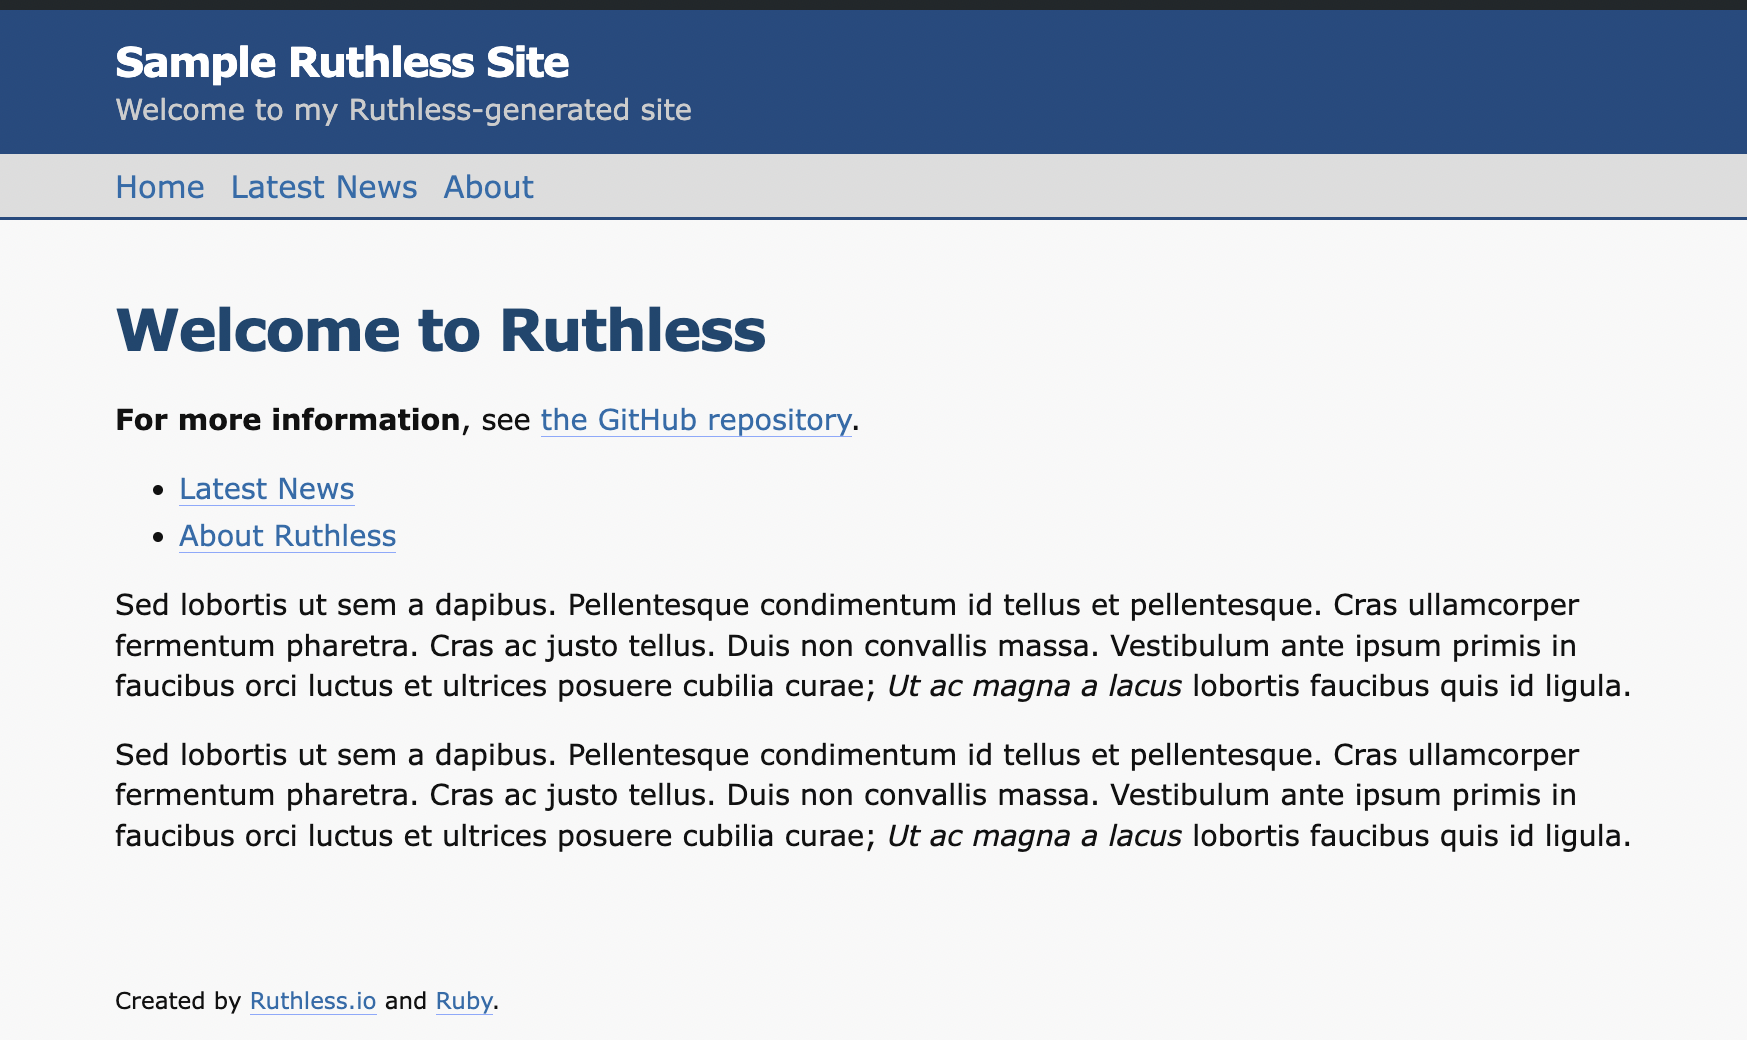
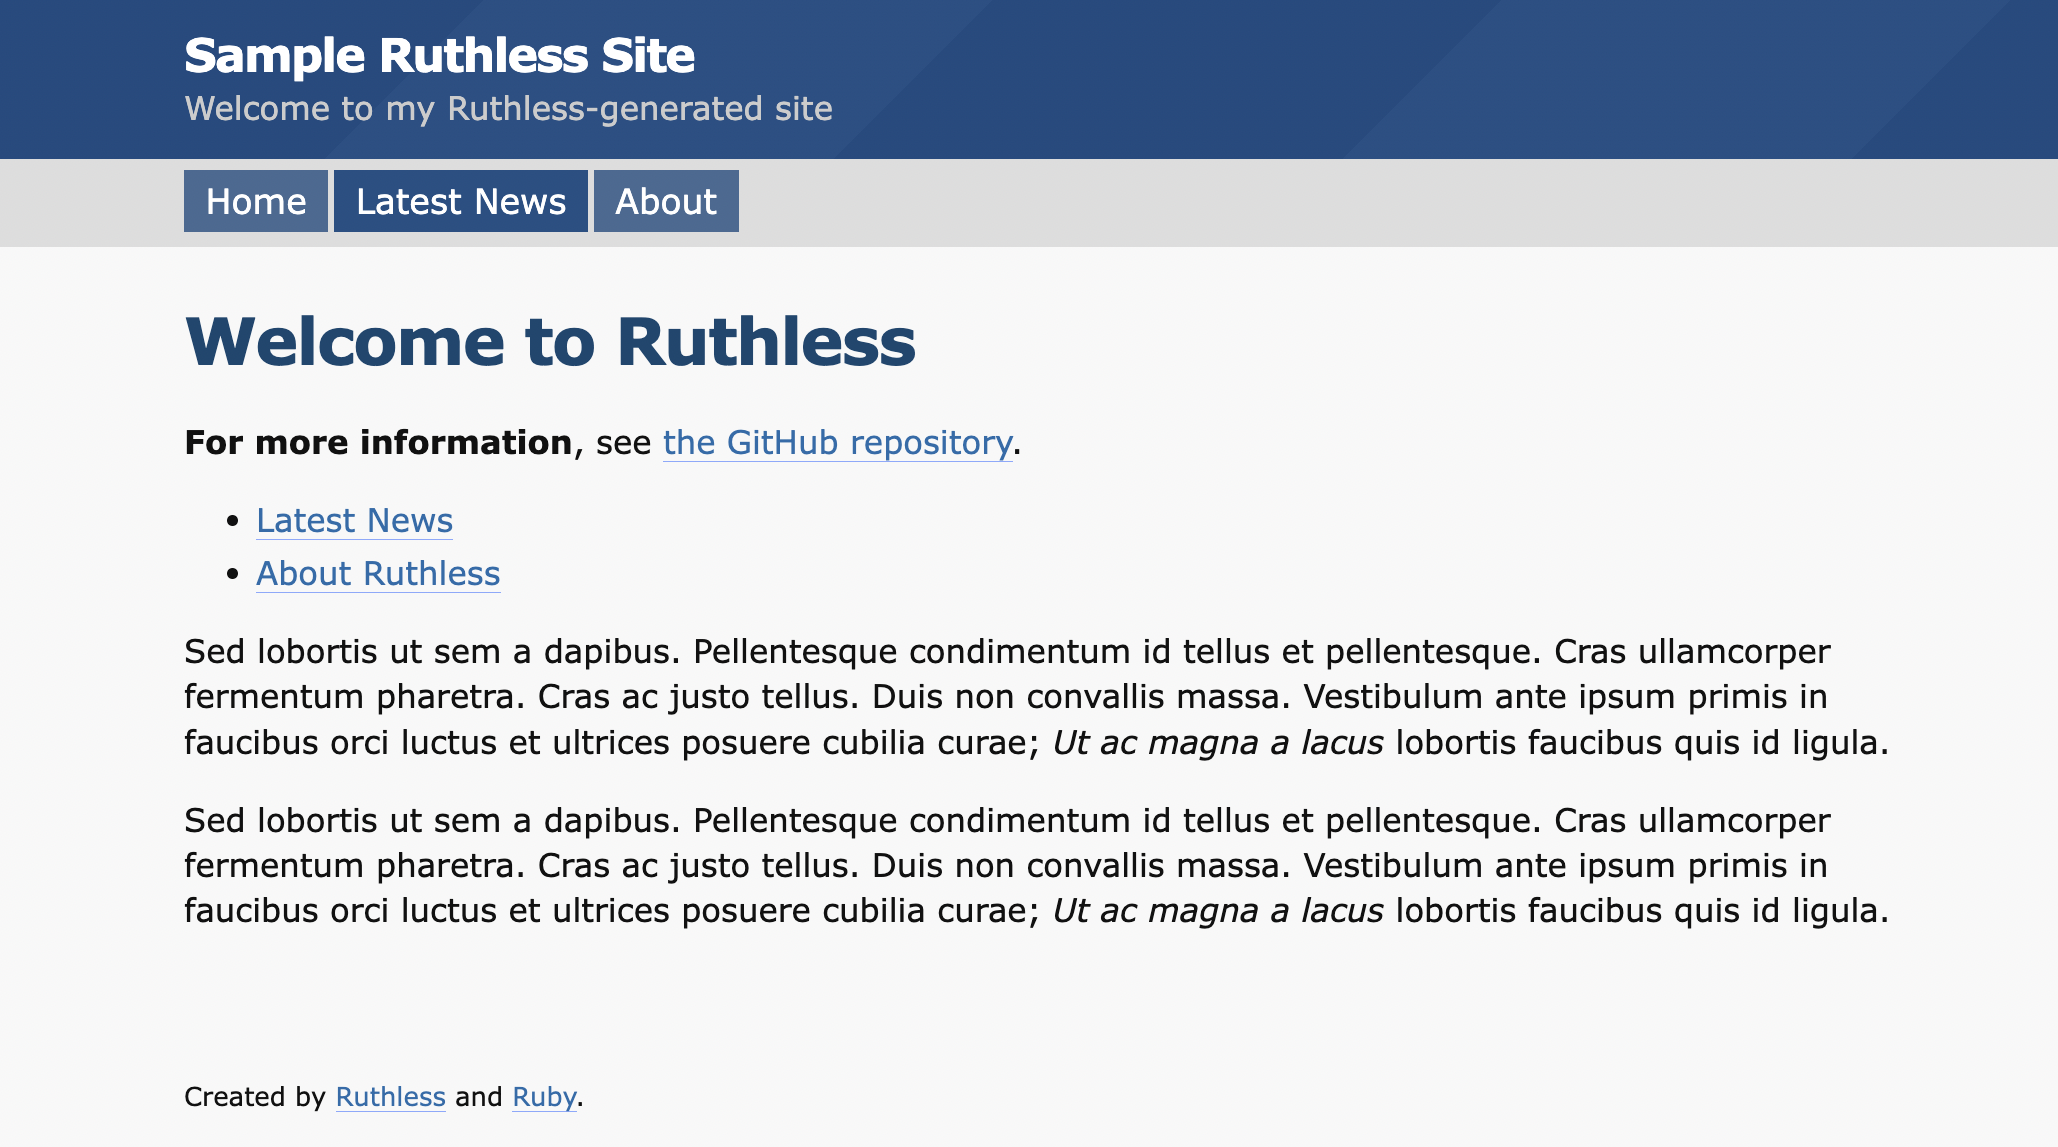
Optional custom theme specified in the `ini` file

diff --git a/example/site/themes/default/theme.css b/example/site/themes/default/theme.css
@@ -1,11 +1,15 @@
+html { box-sizing: border-box; overflow-y: scroll; }
 body { font-family: 'Noto Sans', Verdana, -apple-system, BlinkMacSystemFont, 'Segoe UI', Roboto, 'Helvetica Neue', Arial, sans-serif; font-size: large; background: #f8f8f8; color: #111; margin: 0; padding: 0; }
-a { color: #1e6dac; text-decoration: none; border-bottom: solid 1px #8af; }
+html, body, * { cursor: default; }
+a { cursor: pointer; color: #1e6dac; text-decoration: none; border-bottom: solid 1px #8af; }
 a:hover { color: #085a6e; border-bottom: 2px solid #468c9e; }
 header, nav, main, footer { }
-header { background: #1b4b81; padding-top: 0.4rem; padding-bottom: 0.6rem; }
-nav { border-bottom: solid 2px #1b4b81; background: #ddd; }
-nav a { border: none; margin-right: 1rem; font-size: 1.2rem; white-space: nowrap; }
-main { line-height: 140%; padding-top: 1rem; }
+header { background: #1b4b81; background: repeating-linear-gradient(135deg,#1b4b81,#1b4b81 200px,#205086 200px,#205086 400px); padding-top: 0.4rem; padding-bottom: 0.6rem; }
+nav { background: #ddd; }
+nav .inner { padding-top: 0.4rem; padding-bottom: 0.3rem; }
+nav a { border: none; padding: 0.3rem 0.75rem 0.4rem 0.75rem; display: inline-block; background: #456a93; color: #fff; margin: 0 0.2rem 0.2rem 0; font-size: 1.2rem; white-space: nowrap; }
+nav a:hover { border: none; background: #1e5085; color: #fff; }
+main { line-height: 140%; }
 main img { max-width: 10rem; max-height: 10rem; float: right; margin: 1rem 0 1rem 2rem; background: #fff; padding: 0.4rem; box-shadow: 0 0 8px #00000033; }
 header h1 { font-size: 1.6rem; margin: 0.25rem 0; color: #fff; }
 header aside { color: #ccc; }

diff --git a/ruthless.rb b/ruthless.rb
@@ -1,5 +1,7 @@
 #!/usr/bin/ruby
-#
+
+@version = '3.0.0'
+
 puts 'Ensuring dependencies (slower first time).'
 require 'fileutils'
 require 'find'
@@ -20,21 +22,7 @@ end
 @serve_site = (ARGV[0] && (ARGV[0] == 'serve'))
 @folder = ARGV[1] unless ARGV.length < 2
 
-# Define folder/file locations.
-if @folder
-  @site_folder = File.join(File.dirname(__FILE__), @folder, 'site')
-  @html_folder = File.join(File.dirname(__FILE__), @folder, 'www')
-  @content_folder = File.join(@site_folder, 'content')
-  @layouts_folder = File.join(@site_folder, 'theme')
-  @includes_folder = File.join(@layouts_folder, 'includes')
-  @sample_news_folder = File.join(@content_folder, 'news')
-  @ini_file = File.join(@site_folder, 'ruthless.ini')
-  @layout_file = File.join(@layouts_folder, 'layout.liquid')
-  @theme_file = File.join(@layouts_folder, 'theme.css')
-end
-
 # Define some vars.
-@version = '2.2.2'
 @templatable = ['.md', '.txt'].to_set
 @menu = []
 
@@ -60,8 +48,9 @@ end
 # Show some introductory/explanatory text.
 def show_intro
   puts
-  puts "RUTHLESS #{@version}  https://ruthless.io"
+  puts "RUTHLESS #{@version}"
   puts 'Ruthlessly simple static site generator'
+  puts "https://github.com/kcartlidge/ruthless"
   puts
   puts 'ruby ruthless.rb <command>'
   puts '  new <folder>    Create a new site'
@@ -123,7 +112,25 @@ def get_metadata_and_content(filename)
   { metadata: metadata, content: content }
 end
 
+def define_folders
+  # Define folder/file locations.
+  if @folder
+    @content_folder = File.join(@site_folder, 'content')
+    @layouts_folder = File.join(@site_folder, 'themes', 'default')
+    if @custom_theme
+      @layouts_folder = File.join(@site_folder, @custom_theme)
+      puts 'Setting theme to ' + @layouts_folder
+    end
+    @includes_folder = File.join(@layouts_folder, 'includes')
+    @sample_news_folder = File.join(@content_folder, 'news')
+    @layout_file = File.join(@layouts_folder, 'layout.liquid')
+    @theme_file = File.join(@layouts_folder, 'theme.css')
+  end
+end
+
 def do_create
+  define_folders()
+
   puts '-------------------------------------------'
   puts 'Creating new site and content folders'
   fatal('Site folder already exists') if Dir.exist?(@site_folder)
@@ -132,8 +139,9 @@ def do_create
   new_file('ruthless.ini', @ini_file, "[SITE]
 title    = Sample Ruthless Site
 blurb    = Welcome to my Ruthless-generated site
-footer   = Created by <a href='https://github.com/kcartlidge/ruthless' target='_blank'>Ruthless.io</a> and <a href='https://www.ruby-lang.org' target='_blank'>Ruby</a>.
+footer   = Created by <a href='https://github.com/kcartlidge/ruthless' target='_blank'>Ruthless</a> and <a href='https://www.ruby-lang.org' target='_blank'>Ruby</a>.
 keywords = ruthless,static,site,generator
+theme    = themes/default
 
 [OPTIONS]
 extentions = false
@@ -151,8 +159,8 @@ About = /about")
   new_file('home page', File.join(@content_folder, 'index.md'), "---\ntitle: Welcome to Ruthless\n---\n\n**For more information**, see [the GitHub repository](https://github.com/kcartlidge/ruthless).\n\n* [Latest News](/news)\n* [About Ruthless](/about)" + lipsum)
   new_file('about page', File.join(@content_folder, 'about.md'), "---\ntitle: About Ruthless\n---\n\n**Lorem ipsum** dolor sit amet adipiscing." + lipsum)
   new_file('sample news page', File.join(@sample_news_folder, 'index.md'), "---\ntitle: Latest News\n---\n\n**Lorem ipsum** dolor sit amet adipiscing.\n\n* [Sample News Item 1](sample-news-item-1)\n* [Sample News Item 2](sample-news-item-2)" + lipsum)
-  new_file('sample news item 1 page', File.join(@sample_news_folder, 'sample-news-item-1.md'), "---\ntitle: Sample News Item #1\ndated: August 27, 2023\nauthor: Ruthless.io\nkeywords: news\n---\n\n**Lorem ipsum** dolor sit amet adipiscing.\n\n* [Back to the Latest News](/news)" + lipsum)
-  new_file('sample news item 2 page', File.join(@sample_news_folder, 'sample-news-item-2.md'), "---\ntitle: Sample News Item #2\ndated: January 23, 2024\nauthor: Ruthless.io\nkeywords: news\n---\n\n**Lorem ipsum** dolor sit amet adipiscing.\n\n* [Back to the Latest News](/news)" + lipsum)
+  new_file('sample news item 1 page', File.join(@sample_news_folder, 'sample-news-item-1.md'), "---\ntitle: Sample News Item #1\ndated: August 27, 2023\nauthor: Ruthless\nkeywords: news\n---\n\n**Lorem ipsum** dolor sit amet adipiscing.\n\n* [Back to the Latest News](/news)" + lipsum)
+  new_file('sample news item 2 page', File.join(@sample_news_folder, 'sample-news-item-2.md'), "---\ntitle: Sample News Item #2\ndated: January 23, 2024\nauthor: Ruthless\nkeywords: news\n---\n\n**Lorem ipsum** dolor sit amet adipiscing.\n\n* [Back to the Latest News](/news)" + lipsum)
   new_file('template', @layout_file, "<!DOCTYPE html>
 <html lang='en'>
 <head>
@@ -243,14 +251,18 @@ About = /about")
 </html>")
   new_file('child template', File.join(@includes_folder, '_dated.liquid'), "<div class='dated'>{{ dated }}</div>")
   new_file('page template', File.join(@includes_folder, '_page.liquid'), "{% if dated %}{% include 'dated' %}{% endif %}\n{{ content }}")
-  new_file('theme', @theme_file, "body { font-family: 'Noto Sans', Verdana, -apple-system, BlinkMacSystemFont, 'Segoe UI', Roboto, 'Helvetica Neue', Arial, sans-serif; font-size: large; background: #f8f8f8; color: #111; margin: 0; padding: 0; }
-a { color: #1e6dac; text-decoration: none; border-bottom: solid 1px #8af; }
+  new_file('default theme', @theme_file, "html { box-sizing: border-box; overflow-y: scroll; }
+body { font-family: 'Noto Sans', Verdana, -apple-system, BlinkMacSystemFont, 'Segoe UI', Roboto, 'Helvetica Neue', Arial, sans-serif; font-size: large; background: #f8f8f8; color: #111; margin: 0; padding: 0; }
+html, body, * { cursor: default; }
+a { cursor: pointer; color: #1e6dac; text-decoration: none; border-bottom: solid 1px #8af; }
 a:hover { color: #085a6e; border-bottom: 2px solid #468c9e; }
 header, nav, main, footer { }
-header { background: #1b4b81; padding-top: 0.4rem; padding-bottom: 0.6rem; }
-nav { border-bottom: solid 2px #1b4b81; background: #ddd; }
-nav a { border: none; margin-right: 1rem; font-size: 1.2rem; white-space: nowrap; }
-main { line-height: 140%; padding-top: 1rem; }
+header { background: #1b4b81; background: repeating-linear-gradient(135deg,#1b4b81,#1b4b81 200px,#205086 200px,#205086 400px); padding-top: 0.4rem; padding-bottom: 0.6rem; }
+nav { background: #ddd; }
+nav .inner { padding-top: 0.4rem; padding-bottom: 0.3rem; }
+nav a { border: none; padding: 0.3rem 0.75rem 0.4rem 0.75rem; display: inline-block; background: #456a93; color: #fff; margin: 0 0.2rem 0.2rem 0; font-size: 1.2rem; white-space: nowrap; }
+nav a:hover { border: none; background: #1e5085; color: #fff; }
+main { line-height: 140%; }
 main img { max-width: 10rem; max-height: 10rem; float: right; margin: 1rem 0 1rem 2rem; background: #fff; padding: 0.4rem; box-shadow: 0 0 8px #00000033; }
 header h1 { font-size: 1.6rem; margin: 0.25rem 0; color: #fff; }
 header aside { color: #ccc; }
@@ -285,6 +297,7 @@ def do_build
   @site_title = ini['SITE']['title']
   @site_blurb = ini['SITE']['blurb']
   @site_footer = ini['SITE']['footer']
+  @custom_theme = ini['SITE']['theme']
   @site_keywords = ini['SITE']['keywords']
   @extentions = ini['OPTIONS']['extentions']
   @settings = ini['SETTINGS']
@@ -298,6 +311,8 @@ def do_build
       end
     end
   end
+
+  define_folders()
 
   # Ensure we have required folders/files.
   fatal('Content folder not found') unless Dir.exist?(@content_folder)
@@ -415,10 +430,15 @@ end
 
 show_intro
 fatal('No folder specified') if ARGV.length < 2
-do_create if @new_site
+
+# Headline folders.
+@site_folder = File.join(File.dirname(__FILE__), @folder, 'site')
+@html_folder = File.join(File.dirname(__FILE__), @folder, 'www')
+@ini_file = File.join(@site_folder, 'ruthless.ini')
 
 # Repeatedly do the work (with Ctrl-C to stop an iteration)
 ongoing = true
+do_create if @new_site
 while(ongoing)
   do_build if @build_site
   do_serve if @serve_site

diff --git a/README.md b/README.md
@@ -1,4 +1,4 @@
-# Ruthless.io
+# Ruthless
 
 Ruthlessly simple static site generator, written in Ruby.
 
@@ -63,12 +63,13 @@ ruthless.rb
 example-site
   site/
     ruthless.ini
-    theme/
-      layout.liquid
-      theme.css
-      includes/
-        _dated.liquid
-        _page.liquid
+    themes/
+      default/
+        layout.liquid
+        theme.css
+        includes/
+          _dated.liquid
+          _page.liquid
     content/
       index.md
       news/
@@ -101,6 +102,7 @@ title = Ruthless
 blurb = Ruthlessly simple static site generator
 footer = Created by <a href='https://ruthless.io' target='_blank'>ruthless.io</a> and <a href='https://www.ruby-lang.org' target='_blank'>Ruby</a>.
 keywords = ruthless,static,site,generator
+theme = themes/default
 
 [OPTIONS]
 extentions = false
@@ -118,6 +120,9 @@ The `SETTINGS` section can contain any key/values you like.
 
 The two example ones (`analytics` and `comments`) are used by the sample layout. To activate the values remove the `#` (which is a comment marker).
 Any entries you add can be accessed by your theme in the same way as these two are in `theme/layout.liquid`.
+
+The `theme` entry in `[SITE]` is *optional*.
+If present it's a file path relative to the site folder specified on the command line.  If missing it defaults to `themes/default`, which matches the structure created by the `new` command line action.
 
 ### Supported variables in the template
 

diff --git a/CHANGELOG.md b/CHANGELOG.md
@@ -2,6 +2,10 @@
 
 All notable changes to this project will be documented in this file.
 
+- [3.0.0] - 2024-04-18
+  - Optional custom theme specified in the `ini` file
+    - **Breaking change** as the default path moves
+
 - [2.2.2] - 2024-04-17
   - Slightly enhanced new site template
 
@@ -10,7 +14,7 @@ All notable changes to this project will be documented in this file.
 
 - [2.2.0] - 2020-12-06
   - Allow for restart/quit on Ctrl-C when serving
-    - Breaking change as needs human intervention to end
+    - **Breaking change** as needs human intervention to end
 
 - [2.1.0] - 2020-02-19
   - Require a folder name as input argument

diff --git a/example/site/content/news/sample-news-item-2.md b/example/site/content/news/sample-news-item-2.md
@@ -1,7 +1,7 @@
 ---
 title: Sample News Item #2
 dated: January 23, 2024
-author: Ruthless.io
+author: Ruthless
 keywords: news
 ---
 

diff --git a/example/site/content/news/sample-news-item-1.md b/example/site/content/news/sample-news-item-1.md
@@ -1,7 +1,7 @@
 ---
 title: Sample News Item #1
 dated: August 27, 2023
-author: Ruthless.io
+author: Ruthless
 keywords: news
 ---
 
